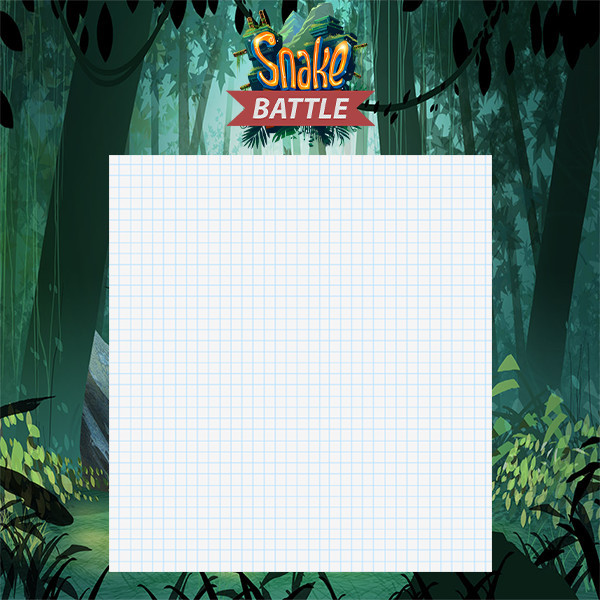
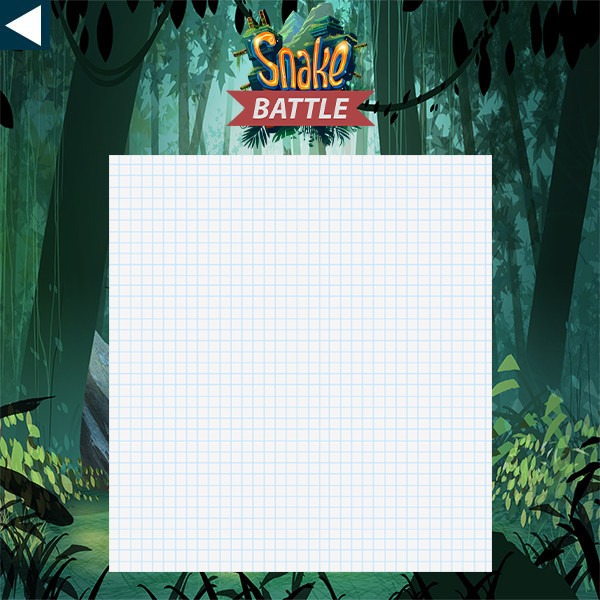
Konacno zavrsen highscore sa mega giga kriptovanjem

Changed region(s): [[0.0, 0.0, 0.09, 0.09]]

diff --git a/SnakeBattle-pp2/SnakeBattle-pp2/gameplay.c b/SnakeBattle-pp2/SnakeBattle-pp2/gameplay.c
@@ -517,25 +517,66 @@ void play(zmija zm1, zmija zm2, zmija zm3, zmija zm4, int mapa[][100], int n, in
 }
 
 
+char *crypt(char *str) {
+	char *resenje = malloc(1000);
+	int i, j,k=0;
+	for (i = 0; i < strlen(str); i++) {
+		for (j = 1; j <= str[i]-'.'; j++) {
+			resenje[k] = ';';
+			k++;
+		}
+		resenje[k++] = ',';
+	}
+	resenje[k++] = '.';
+	resenje[k] = '\0';
+	return resenje;
+}
+
+char *decrypt(char *str) {
+
+	char *resenje = malloc(200);
+	char karakter;
+	int i = 0 , j,k=0;
+	while (str[i] != '.') {
+		j = 0;
+		while (str[i] != ',') { 
+			j++;
+			i++; 
+		}
+		i++;
+		resenje[k++] = j+'.';
+		if (str[i] == '.') break;
+		
+	}
+	resenje[k] = '\0';
+	return resenje;
+}
+
 void checkHighscore(float vreme) {
 
 	FILE *fp;
 	int n, i, p, j;
 	osoba highscore[11], igrac;
-	char ime[50], prezime[50];
+	char ime[50], prezime[50],pom,*pomocni;
 
+	igrac.ime = malloc(50);
+	igrac.prezime = malloc(50);
+	pomocni = malloc(200);
 
-	printf("%f\n", vreme);
 	n = 0;
 	fp = fopen("highscore.txt", "r");
-	while (!feof(fp)) {
+	while (pom=fgetc(fp)!=EOF) {
+		highscore[n].ime = malloc(1000);
+		highscore[n].prezime = malloc(1000);
 		fscanf(fp, "%s", highscore[n].ime);
 		fscanf(fp, "%s", highscore[n].prezime);
-		fscanf(fp, "%f", &highscore[n].rezultat);
+		fscanf(fp, "%s", pomocni);
+		pomocni = decrypt(pomocni);
+		highscore[n].rezultat = atof(pomocni);
 		n++;
 	}
-	n--;
-	printf("%d\n", n);
+
+
 	p = 0;
 	for (i = 0; i < n; i++) {
 		if (highscore[i].rezultat > vreme) {
@@ -547,7 +588,11 @@ void checkHighscore(float vreme) {
 			}
 
 			printf("MOLIMO UNESITE VASE IME I PREZIME:\n");
-			scanf("%s %s", igrac.ime, igrac.prezime);
+			scanf("%s %s", ime, prezime);
+			igrac.ime = ime;
+			igrac.prezime = prezime;
+			igrac.ime = crypt(igrac.ime);
+			igrac.prezime = crypt(igrac.prezime);
 			igrac.rezultat = vreme;
 			highscore[i] = igrac;
 			p = 1;
@@ -556,20 +601,32 @@ void checkHighscore(float vreme) {
 	}
 	if (!p && n < 10) {
 		printf("MOLIMO UNESITE VASE IME I PREZIME:\n");
-		scanf("%s %s", igrac.ime, igrac.prezime);
+		scanf("%s %s", ime, prezime);
+		igrac.ime = ime;
+		igrac.prezime = prezime;
+		igrac.ime = crypt(igrac.ime);
+		igrac.prezime = crypt(igrac.prezime);
 		igrac.rezultat = vreme;
 		highscore[n] = igrac;
 		n++;
 	}
 
-	fclose(fp);
 
-	fp = fopen("highscore.txt", "w");
+
+	fclose(fp);
+	fp=fopen("highscore.txt", "w");
+	
 
 	for (i = 0; i < n; i++) {
-		fprintf(fp, "%s %s %f\n", highscore[i].ime, highscore[i].prezime, highscore[i].rezultat);
+		snprintf(pomocni, 10, "%f", highscore[i].rezultat);
+		pomocni = crypt(pomocni);
+		fprintf(fp, " %s %s %s", highscore[i].ime, highscore[i].prezime, pomocni);
+		free(highscore[i].ime);
+		free(highscore[i].prezime);
+		
 	}
 
+	free(pomocni);
 	fclose(fp);
 }
 

diff --git a/SnakeBattle-pp2/SnakeBattle-pp2/grafika.c b/SnakeBattle-pp2/SnakeBattle-pp2/grafika.c
@@ -661,3 +661,102 @@ void update_screen(zmija zm, int mapa[][100],int n, SDL_Window *window, SDL_Rend
 		SDL_RenderPresent(renderer);
 	}
 }
+
+void prikaziHighscore(SDL_Window *window, SDL_Renderer *renderer) {
+	SDL_Texture *image = loadTexture("img/highscorepozadina.jpg", renderer);
+	int i, n,pomeraj,j;
+	char rez[10],pom,*pomocni;
+	osoba highscore[11];
+	FILE *fp;
+	TTF_Font *Sans;
+	SDL_Color Black = { 0,0,0 };
+	SDL_Surface* surfaceMessage;
+	SDL_Texture* Message;
+	SDL_Rect Message_rect;
+	SDL_Event e;
+
+	renderTexture(image, renderer, 0, 0, 600, 600);
+	SDL_RenderPresent(renderer);
+	pomocni = malloc(200);
+	n = 0;
+	fp = fopen("highscore.txt", "r");
+	while (pom=fgetc(fp)!=EOF) { 
+		highscore[n].ime = malloc(1000);
+		highscore[n].prezime = malloc(1000);
+		fscanf(fp, "%s %s %s", highscore[n].ime,highscore[n].prezime,pomocni);
+		pomocni = decrypt(pomocni);
+		highscore[n].rezultat = atof(pomocni);
+		highscore[n].ime = decrypt(highscore[n].ime);
+		highscore[n].prezime = decrypt(highscore[n].prezime);
+		n++;
+	}
+	
+	pomeraj = 0;
+	for (i = 0; i< n; i++) {
+
+		Sans = TTF_OpenFont("fonts/tajmer.ttf", 12); 
+
+		 
+
+		surfaceMessage = TTF_RenderText_Solid(Sans, highscore[i].ime, Black); 
+
+		Message = SDL_CreateTextureFromSurface(renderer, surfaceMessage); 
+
+		Message_rect; 
+		Message_rect.x = 120;  
+		Message_rect.y = 160 + pomeraj; 
+		Message_rect.w = 100; 
+		Message_rect.h = 40; 
+
+		SDL_RenderCopy(renderer, Message, NULL, &Message_rect);
+
+		surfaceMessage = TTF_RenderText_Solid(Sans, highscore[i].prezime, Black); 
+
+		Message = SDL_CreateTextureFromSurface(renderer, surfaceMessage); 
+
+		Message_rect;
+		Message_rect.x = 260;  
+		Message_rect.y = 160 + pomeraj; 
+		Message_rect.w = 100; 
+		Message_rect.h = 40; 
+
+		SDL_RenderCopy(renderer, Message, NULL, &Message_rect);
+
+		snprintf(rez, 10, "%.2f", highscore[i].rezultat);
+
+		surfaceMessage = TTF_RenderText_Solid(Sans, rez, Black); 
+
+		Message = SDL_CreateTextureFromSurface(renderer, surfaceMessage); 
+
+		Message_rect; 
+		Message_rect.x = 385;  
+		Message_rect.y = 160 + pomeraj; 
+		Message_rect.w = 100; 
+		Message_rect.h = 40; 
+
+
+		SDL_RenderCopy(renderer, Message, NULL, &Message_rect);
+
+
+		SDL_RenderPresent(renderer);
+		pomeraj+=40;
+
+		free(highscore[i].ime);
+		free(highscore[i].prezime);
+
+	}
+
+
+	while (1) {
+		SDL_WaitEvent(&e);
+		if (e.type == SDL_MOUSEBUTTONDOWN) {
+			i = e.button.x; j = e.button.y;
+			if (i >= 0 && i <= 50 && j >= 0 && j <= 50) break;
+		}
+	}
+
+	free(pomocni);
+	SDL_DestroyTexture(image);
+	fclose(fp);
+}
+

diff --git a/SnakeBattle-pp2/SnakeBattle-pp2/main.c b/SnakeBattle-pp2/SnakeBattle-pp2/main.c
@@ -9,10 +9,12 @@ int main() {
 	int opcija, n, brzina, i, j, mapa[100][100] = { 0 };
 	zmija zm1, zm2, zm3, zm4;
 	TTF_Init();
+	
+
 
 	setdefault(&zm1, &zm2, &zm3, &zm4, mapa, &n, &brzina);
 	VEL = 600 / n;
-
+	
 	window = SDL_CreateWindow("SnakeBattle v1.0", SDL_WINDOWPOS_CENTERED, SDL_WINDOWPOS_CENTERED, 600, 600, SDL_WINDOW_SHOWN);
 	rend = SDL_CreateRenderer(window, -1, SDL_RENDERER_ACCELERATED);
 
@@ -43,11 +45,7 @@ int main() {
 			VEL = 600 / n;
 			break;
 		case 3:
-			SDL_RenderClear(rend);
-			image = loadTexture("img/highscorepozadina.jpg", rend);
-			renderTexture(image, rend, 0, 0, 600, 600);
-			SDL_RenderPresent(rend);
-			SDL_Delay(5000);
+			prikaziHighscore(window, rend);
 			break;
 		case 4:
 			break;

diff --git a/SnakeBattle-pp2/SnakeBattle-pp2/gameplay.h b/SnakeBattle-pp2/SnakeBattle-pp2/gameplay.h
@@ -12,6 +12,7 @@
 
 #include <stdio.h>
 #include <stdlib.h>
+#include <ctype.h>
 #include <SDL_ttf.h>
 #include "grafika.h"
 
@@ -24,7 +25,7 @@ typedef struct zm {
 	short smer, ziva, igrac, tezina, redni;
 }zmija;
 typedef struct StOsoba {
-	char ime[50], prezime[50];
+	char *ime, *prezime;
 	float rezultat;
 }osoba;
 
@@ -40,5 +41,8 @@ void setdefault(zmija *zm1, zmija *zm2, zmija *zm3, zmija *zm4, int mapa[][100],
 void podesimapu(zmija *zm1, zmija *zm2, zmija *zm3, zmija *zm4, int mapa[][100], int n);
 
 void checkHighscore(float vreme);
+
+char *crypt(char *str);
+char *decrypt(char *str);
 
 #endif

diff --git a/SnakeBattle-pp2/SnakeBattle-pp2/grafika.h b/SnakeBattle-pp2/SnakeBattle-pp2/grafika.h
@@ -3,6 +3,7 @@
 #define grafika
 #include <stdio.h>
 #include <stdlib.h>
+#include <string.h>
 #include <SDL.h>
 #include <SDL_image.h>
 #include "gameplay.h"
@@ -33,4 +34,6 @@ void ispis(SDL_Window *window, SDL_Renderer *renderer, int mapa[][100], int n, z
 void opcije(zmija *zm1, zmija *zm2, zmija *zm3, zmija *zm4, int mapa[100][100], int *n,int *brzina, SDL_Window *window, SDL_Renderer *renderer);
 
 void update_screen(zmija zm, int mapa[][100], int n, SDL_Window *window, SDL_Renderer *renderer);
+
+void prikaziHighscore(SDL_Window *window, SDL_Renderer *renderer);
 #endif // !grafika/
